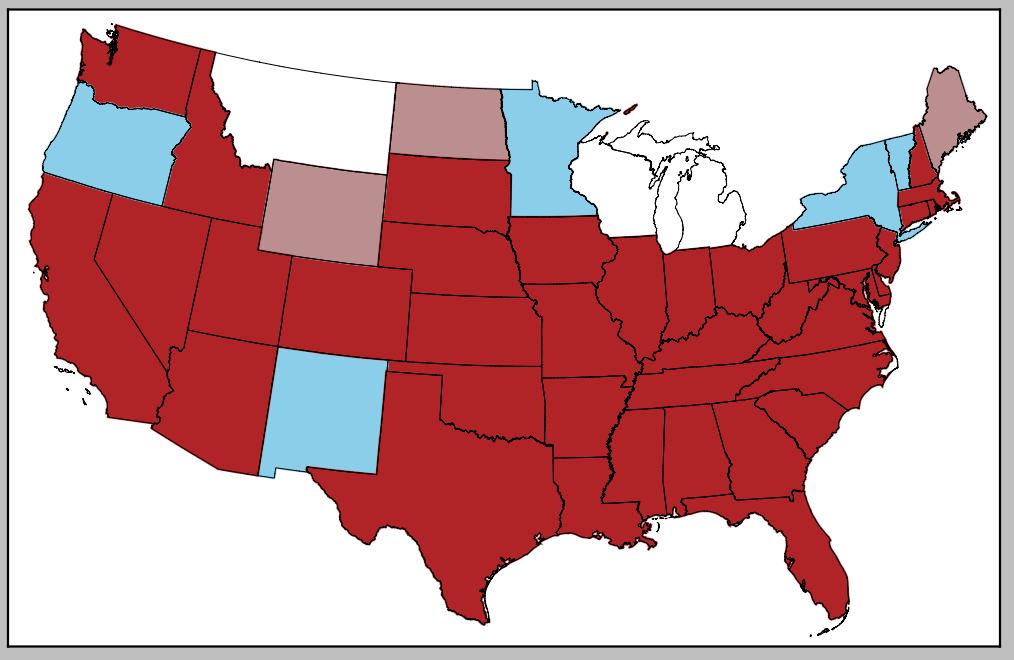
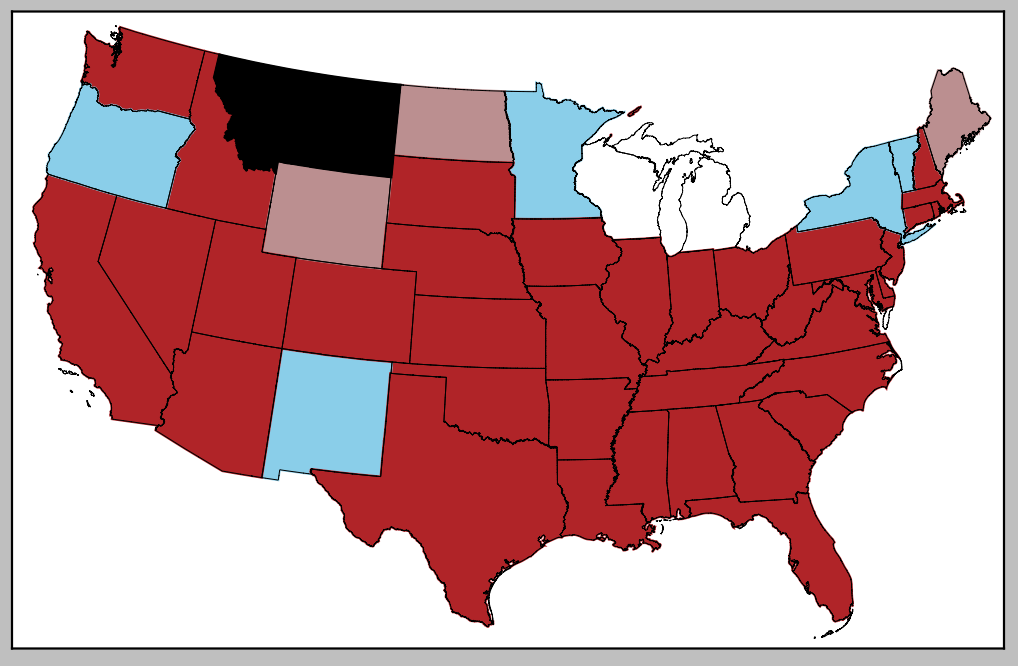
better... black is tie between candidates

diff --git a/map.py b/map.py
@@ -50,7 +50,7 @@ colors = {'Trump': (0.0, 0.0, 0.0), 'Cruz': (0.0, 0.0, 1.0), 'Kasich': (0.75, 0,
           'Clinton': (1.0, 0.0, 0.0),
           'Berney': (0.75, 0.75, 0)}
 colors2 = {'Trump': plotC['firebrick'], 'Cruz': plotC['rosybrown'], 'Kasich': plotC['darkred'], 'Clinton': plotC['blueviolet'],
-           'Berney': plotC['skyblue']}
+           'Berney': plotC['skyblue'], 'none': plotC['black']}
 
 # create the map
 map = Basemap(llcrnrlon=-119,llcrnrlat=22,urcrnrlon=-64,urcrnrlat=49,
@@ -230,6 +230,10 @@ for j, k in repVSdemo2.items():
     elif k[4] > k[0] and k[4] > k[1] and k[4] > k[2] and k[4] > k[3]:
         poly = Polygon(seg[i], facecolor=colors2['Berney'], edgecolor=colors2['Berney'])
         ax.add_patch(poly)
+    else:
+        poly = Polygon(seg[i], facecolor=colors2['none'], edgecolor=colors2['none'])
+        ax.add_patch(poly)
+
     i += 1
 
 
